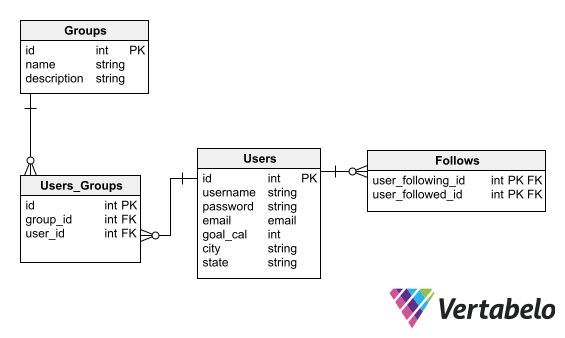
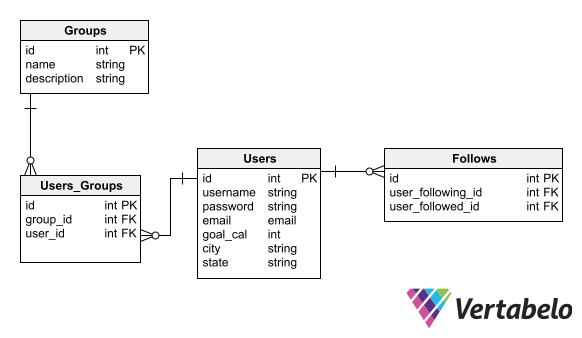
update follows table

Changed region(s): [[0.3009, 0.4438, 0.9929, 0.8284], [0.0301, 0.0592, 0.3009, 0.7692], [0.692, 0.8284, 0.9929, 0.9763]]

diff --git a/models.py b/models.py
@@ -12,12 +12,13 @@ class Follows(db.Model):
 
     __tablename__ = "follows"
 
-    user_following_id = db.Column(db.Integer, db.ForeignKey('users.id', ondelete="cascade"), primary_key=True)
-    user_followed_id = db.Column(db.Integer, db.ForeignKey('users.id', ondelete="cascade"), primary_key=True)
+    id = db.Column(db.Integer, primary_key=True, autoincrement=True)
+    user_following_id = db.Column(db.Integer, db.ForeignKey('users.id', ondelete="cascade"))
+    user_followed_id = db.Column(db.Integer, db.ForeignKey('users.id', ondelete="cascade"))
 
     def __repr__(self):
         """Human readable representation of follow table data."""
-        return f"<Follows: user_following_id={self.user_following_id}, user_followed_id={self.user_followed_id}>"
+        return f"<Follows #{self.id}: user_following_id={self.user_following_id}, user_followed_id={self.user_followed_id}>"
 
 
 class User(db.Model):

diff --git a/seed.py b/seed.py
@@ -57,10 +57,10 @@ db.session.add_all([fake_ug1, fake_ug2, fake_ug3, fake_ug4])
 db.session.commit()
 
 # Add sample follows
-fake_f1 = Follows(user_following_id=553131, user_followed_id=771010)
-fake_f2 = Follows(user_following_id=771010, user_followed_id=553131)
-fake_f3 = Follows(user_following_id=771010, user_followed_id=660101)
-fake_f4 = Follows(user_following_id=440202, user_followed_id=660101)
+fake_f1 = Follows(id=99999, user_following_id=553131, user_followed_id=771010)
+fake_f2 = Follows(id=99998, user_following_id=771010, user_followed_id=553131)
+fake_f3 = Follows(id=99997, user_following_id=771010, user_followed_id=660101)
+fake_f4 = Follows(id=99996, user_following_id=440202, user_followed_id=660101)
 
 # Add new objects to session, so they'll persist
 db.session.add_all([fake_f1, fake_f2, fake_f3, fake_f4])
